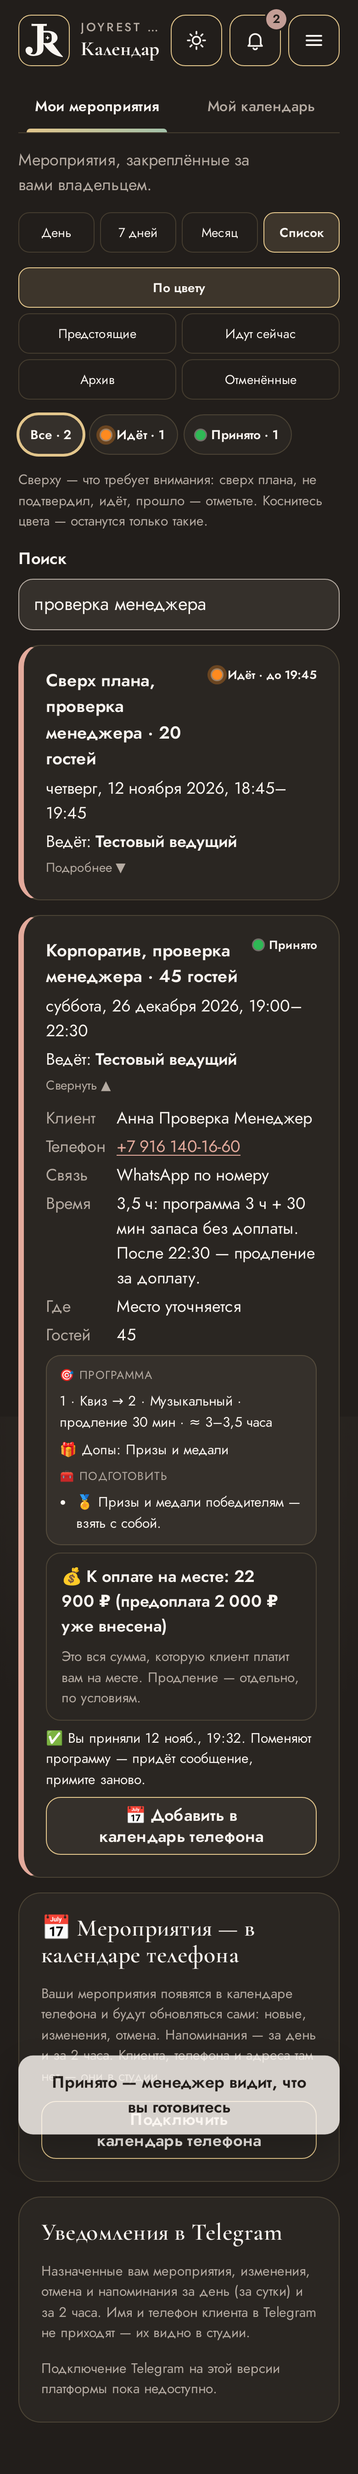
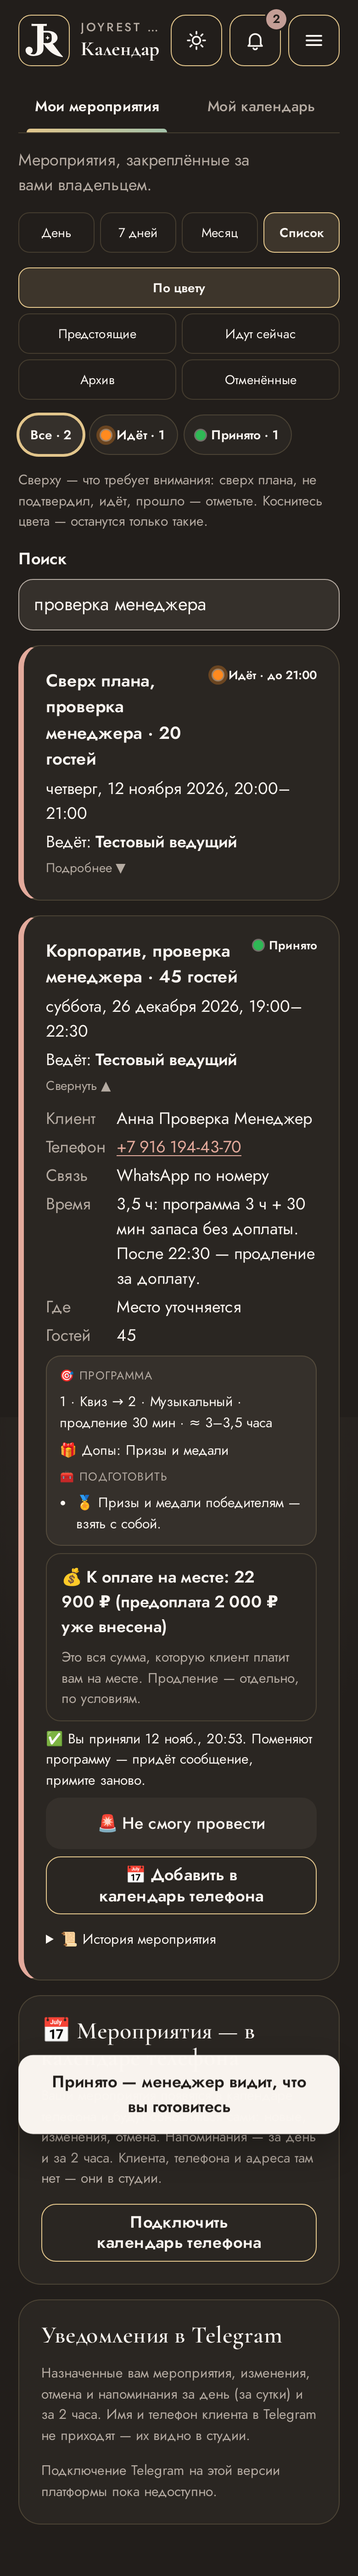
Снимки проверки пути менеджера 39aa3ce

diff --git a/manager/README.md b/manager/README.md
@@ -81,6 +81,15 @@
 - ✅ Менеджер: кружок снова 🟡 «Ждёт ведущего»
 - ✅ Ведущий: принял изменённое — снова 🟢
 
+## 6а. Кто ведёт, «Ведущий принял», история
+
+- ✅ Менеджер: в колокольчике «✅ Ведущий принял мероприятие»
+- ✅ Менеджер: на карточке зелёная плашка «✅ Ведущий принял»
+- ✅ Карточка: «📜 История мероприятия» — «Записал(а)», «Изменил(а)», «Принял»
+- ✅ История: есть «Принял» и что меняли, имени клиента нет
+- ✅ Владелец: чужое мероприятие не меняет (409 «ведёт другой») — только «Забрать себе»
+- ✅ Занятого ведущего не записать: то же время тому же ведущему — отказ
+
 ## 7. Кружки на настоящих мероприятиях
 
 - ✅ 🔴 «Не подтвердил · через 10 ч» — до начала меньше суток
@@ -133,7 +142,7 @@
 
 ## 10. 🟣 «Сверх плана»: игра ведущего открыта после «до»
 
-- ℹ Ждём «до» 19:45 — 781 с
+- ℹ Ждём «до» 21:00 — 432 с
 - ✅ 🟣 «Сверх плана · N мин» — после «до» игра ещё открыта
 - ✅ Игру завершили — ⚪ «Прошло — отметьте»
 
